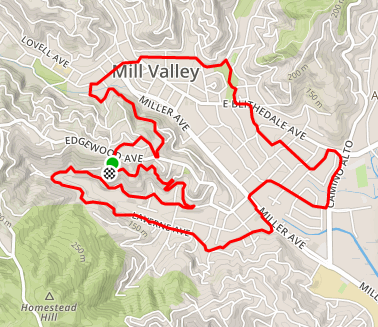
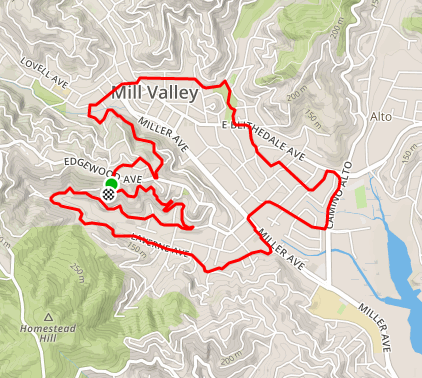
working on route suggestion functionality

diff --git a/app.js b/app.js
@@ -8,12 +8,26 @@ app.controller('indexCtrl', ['$scope', '$sce', function($scope, $sce){
     $scope.plan.miles = 0;
     $scope.plan.days = 0;
     $scope.plan.total = 0;
+    $scope.plan.runs = runs;
+    console.log(runs);
 //    $scope.plan.monUrl = $sce.trustAsResourceUrl('https://www.runtastic.com/en/routes#/search?nw_latitude=37.96763381521261&nw_longitude=-122.57988285583491&se_latitude=37.930408444176386&se_longitude=-122.51482319396968&zoom_level=14&clat=37.94902348734078&clng=-122.54735302490229&distance_min=0&distance_max=482803&elevation_gain_min=0&elevation_gain_max=762&sport_type_id=1&page=1');
 //    $scope.trustSrc = function(src) {
 //        return $sce.trustAsResourceUrl(src);
 //    }
    
     $scope.calcTotal = function(){
+        
+        var findRun = function(dist){
+            var res = [];
+            $scope.plan.runs.forEach(function(run){
+                if(run.distance >= (dist - 0.5) && run.distance <= (dist + 0.5)){
+                    res.push(run);
+                }
+            });
+            return res;
+        };
+        
+        
         $scope.plan.days = (($scope.plan.monday ? 1 : 0)
                                                       + ($scope.plan.tuesday ? 1 : 0)
                                                       + ($scope.plan.wednesday ? 1 : 0)
@@ -32,6 +46,14 @@ app.controller('indexCtrl', ['$scope', '$sce', function($scope, $sce){
             $scope.plan.thursData = $scope.plan.thursday ? weekMiles : 0;
             $scope.plan.friData = $scope.plan.friday ? weekMiles : 0;
             
+            $scope.plan.satUrl = findRun($scope.plan.satData)[0].map;
+            $scope.plan.sunUrl = findRun($scope.plan.sunData)[0].map;
+            $scope.plan.monUrl = $scope.plan.monday ? findRun(weekMiles)[0].map : null;
+            $scope.plan.tuesUrl = $scope.plan.tuesday ? findRun(weekMiles)[0].map : null;
+            $scope.plan.wedsUrl = $scope.plan.wednesday ? findRun(weekMiles)[0].map : null;
+            $scope.plan.thursUrl = $scope.plan.thursday ? findRun(weekMiles)[0].map : null;
+            $scope.plan.friUrl = $scope.plan.friday ? findRun(weekMiles)[0].map : null;
+            
         }else if(($scope.plan.saturday || $scope.plan.sunday) && ($scope.plan.days > 3)){
             weekendMiles = $scope.plan.miles * .30;
             weekMiles = ($scope.plan.miles * .7) / ($scope.plan.days - 1);
@@ -42,6 +64,14 @@ app.controller('indexCtrl', ['$scope', '$sce', function($scope, $sce){
             $scope.plan.friData = $scope.plan.friday ? weekMiles : 0;
             $scope.plan.satData = $scope.plan.saturday ? weekendMiles : 0;
             $scope.plan.sunData = $scope.plan.sunday ? weekendMiles : 0;
+            
+            $scope.plan.satUrl = $scope.plan.saturday ? findRun(weekendMiles)[0].map : null;
+            $scope.plan.sunUrl = $scope.plan.sunday ? findRun(weekendMiles)[0].map : null;
+            $scope.plan.monUrl = $scope.plan.monday ? findRun(weekMiles)[0].map : null;
+            $scope.plan.tuesUrl = $scope.plan.tuesday ? findRun(weekMiles)[0].map : null;
+            $scope.plan.wedsUrl = $scope.plan.wednesday ? findRun(weekMiles)[0].map : null;
+            $scope.plan.thursUrl = $scope.plan.thursday ? findRun(weekMiles)[0].map : null;
+            $scope.plan.friUrl = $scope.plan.friday ? findRun(weekMiles)[0].map : null;
         }else{
             $scope.plan.total =  $scope.plan.miles / $scope.plan.days;
             $scope.plan.monData = $scope.plan.monday ? $scope.plan.total : 0;
@@ -51,7 +81,17 @@ app.controller('indexCtrl', ['$scope', '$sce', function($scope, $sce){
             $scope.plan.friData = $scope.plan.friday ? $scope.plan.total : 0;
             $scope.plan.satData = $scope.plan.saturday ? $scope.plan.total : 0;
             $scope.plan.sunData = $scope.plan.sunday ? $scope.plan.total : 0;
+            
+            $scope.plan.satUrl = $scope.plan.saturday ? findRun($scope.plan.total)[0].map : null;
+            $scope.plan.sunUrl = $scope.plan.sunday ? findRun($scope.plan.total)[0].map : null;
+            $scope.plan.monUrl = $scope.plan.monday ? findRun($scope.plan.total)[0].map : null;
+            $scope.plan.tuesUrl = $scope.plan.tuesday ? findRun($scope.plan.total)[0].map : null;
+            $scope.plan.wedsUrl = $scope.plan.wednesday ? findRun($scope.plan.total)[0].map : null;
+            $scope.plan.thursUrl = $scope.plan.thursday ? findRun($scope.plan.total)[0].map : null;
+            $scope.plan.friUrl = $scope.plan.friday ? findRun($scope.plan.total)[0].map : null;
         }
+        
+        
     };
 }]);
 
@@ -60,3 +100,5 @@ app.filter("distance", function(){
         return input + " miles";
     };
 });
+
+//app.service("findRun", )

diff --git a/data.js b/data.js
@@ -1,90 +1,102 @@
 var runs = [{
         distance: 13.9,
-        map: 'assets/14_TennesseeValley.png',
+        map: 'assets/14_tennesseevalley.png',
         url: 'https://www.strava.com/activities/414877252',
         city: 'Mill Valley'
     },
     {
         distance: 21.9,
-        map: 'assets/22_MuirWoods.png',
+        map: 'assets/22_muirwoods.png',
         url: 'https://www.strava.com/activities/414418429',
         city: 'Mill Valley'
     },
     {
         distance: 8.1,
-        map: 'assets/8_Homestead.png',
+        map: 'assets/8_homestead.png',
         url: 'https://www.strava.com/activities/411262876',
         city: 'Mill Valley'
     },
     {
         distance: 2.0,
-        map: 'assets/2_Homestead.png',
+        map: 'assets/2_homestead.png',
         url: 'https://www.strava.com/activities/405068621',
         city: "Mill Valley"
     },
     {
         distance: 6.2,
-        map: '6_MillValley.png',
+        map: 'assets/6_millvalley.png',
         url: 'https://www.strava.com/activities/402488920',
         city: 'Mill Valley'
     },
     {
         distance: 5.0,
-        map: 'assets/5_Homestead.png',
+        map: 'assets/5_homestead.png',
         url: 'https://www.strava.com/activities/402476255',
         city: 'Mill Valley'
     },
     {
         distance: 5.2,
-        map: 'assets/5_MillValley.png',
+        map: 'assets/5_millvalley.png',
         url: 'https://www.strava.com/activities/396783171',
         city: 'Mill Valley'
     },
     {
         distance: 13.1,
-        map: 'assets/13_MtTam.png',
+        map: 'assets/13_mttam.png',
         url: 'https://www.strava.com/activities/390774579',
         city: 'Mill Valley'
     },
     {
         distance: 4.4,
-        map: 'assets/4_MillValley.png',
+        map: 'assets/4_millvalley.png',
         url: 'https://www.strava.com/activities/384433226',
         city: 'Mill Valley'
     },
     {
         distance: 3.4,
-        map: 'assets/3_MillValley.png',
+        map: 'assets/3_millvalley.png',
         url: 'https://www.strava.com/activities/376811436',
         city: 'Mill Valley'
     },
     {
         distance: 15.0,
-        map: 'assets/15_TennesseeValley.png',
+        map: 'assets/15_tennesseevalley.png',
         url: 'https://www.strava.com/activities/361476760',
         city: 'Mill Valley'
     },
     {
-        distance: 9.5,
-        map: 'assets/9_MillValley.png',
+        distance: 9.4,
+        map: 'assets/9_millvalley.png',
         url: 'https://www.strava.com/activities/357626372',
         city: 'Mill Valley'
     },
     {
         distance: 9.9,
-        map: 'assets/10_MtTam.png',
+        map: 'assets/10_mttam.png',
         url: 'https://www.strava.com/activities/342043583',
         city: 'Mill Valley'
     },
     {
         distance: 11.5,
-        map: 'assets/11_Sausalito.png',
+        map: 'assets/11_sausalito.png',
         url: 'https://www.strava.com/activities/415101154',
         city: 'Mill Valley'
     },
     {
         distance: 12.4,
-        map: 'assets/12_TennesseeValley.png',
+        map: 'assets/12_tennesseevalley.png',
         url: 'https://www.strava.com/activities/414861111',
+        city: 'Mill Valley'
+    },
+    {
+        distance: 10.7,
+        map: 'assets/10_tennesseevalley.png',
+        url: 'https://www.strava.com/activities/415736792',
+        city: 'Mill Valley'
+    },
+    {
+        distance: 7.3,
+        map: 'assets/7_millvalley.png',
+        url: 'https://www.strava.com/activities/364524117',
         city: 'Mill Valley'
     }];

diff --git a/index.html b/index.html
@@ -8,6 +8,7 @@
         <script src="node_modules/angular-route/angular-route.js"></script>
         <script src="node_modules/angular-resource/angular-resource.js"></script>
         <script src="app.js"></script>
+        <script src="data.js"></script>
     </head>
     <body>
         <div class="container">
@@ -85,13 +86,13 @@
                 <tr>
 
                     
-                    <td><img ng-src="{{plan.monday && 'assets/14_TennesseeValley.png' || 'assets/rest.jpg'}}"></td>
-                    <td><img ng-src="{{plan.tuesday && 'assets/14_TennesseeValley.png' || 'assets/rest.jpg'}}"></td>
-                    <td><img ng-src="{{plan.wednesday && 'assets/14_TennesseeValley.png' || 'assets/rest.jpg'}}"></td>
-                    <td><img ng-src="{{plan.thursday && 'assets/14_TennesseeValley.png' || 'assets/rest.jpg'}}"></td>
-                    <td><img ng-src="{{plan.friday && 'assets/14_TennesseeValley.png' || 'assets/rest.jpg'}}"></td>
-                    <td><img ng-src="{{plan.saturday && 'assets/14_TennesseeValley.png' || 'assets/rest.jpg'}}"></td>
-                    <td><img ng-src="{{plan.sunday && 'assets/14_TennesseeValley.png' || 'assets/rest.jpg'}}"></td>
+                    <td><img ng-src="{{plan.monday && (plan.monUrl || 'assets/runDay.png') || 'assets/chillDay.jpg'}}"></td>
+                    <td><img ng-src="{{plan.tuesday && (plan.tuesUrl || 'assets/runDay.png') || 'assets/chillDay.jpg'}}"></td>
+                    <td><img ng-src="{{plan.wednesday && (plan.wedsUrl || 'assets/runDay.png') || 'assets/chillDay.jpg'}}"></td>
+                    <td><img ng-src="{{plan.thursday && (plan.thursUrl || 'assets/runDay.png') || 'assets/chillDay.jpg'}}"></td>
+                    <td><img ng-src="{{plan.friday && (plan.friUrl || 'assets/runDay.png') || 'assets/chillDay.jpg'}}"></td>
+                    <td><img ng-src="{{plan.saturday && (plan.satUrl || 'assets/runDay.png') || 'assets/chillDay.jpg'}}"></td>
+                    <td><img ng-src="{{plan.sunday && (plan.sunUrl || 'assets/runDay.png') || 'assets/chillDay.jpg'}}"></td>
 <!--
                     <td><iframe ng-src="{{plan.monUrl}}" width="400" height="100">
  <p>Your browser does not support iframes.</p>
